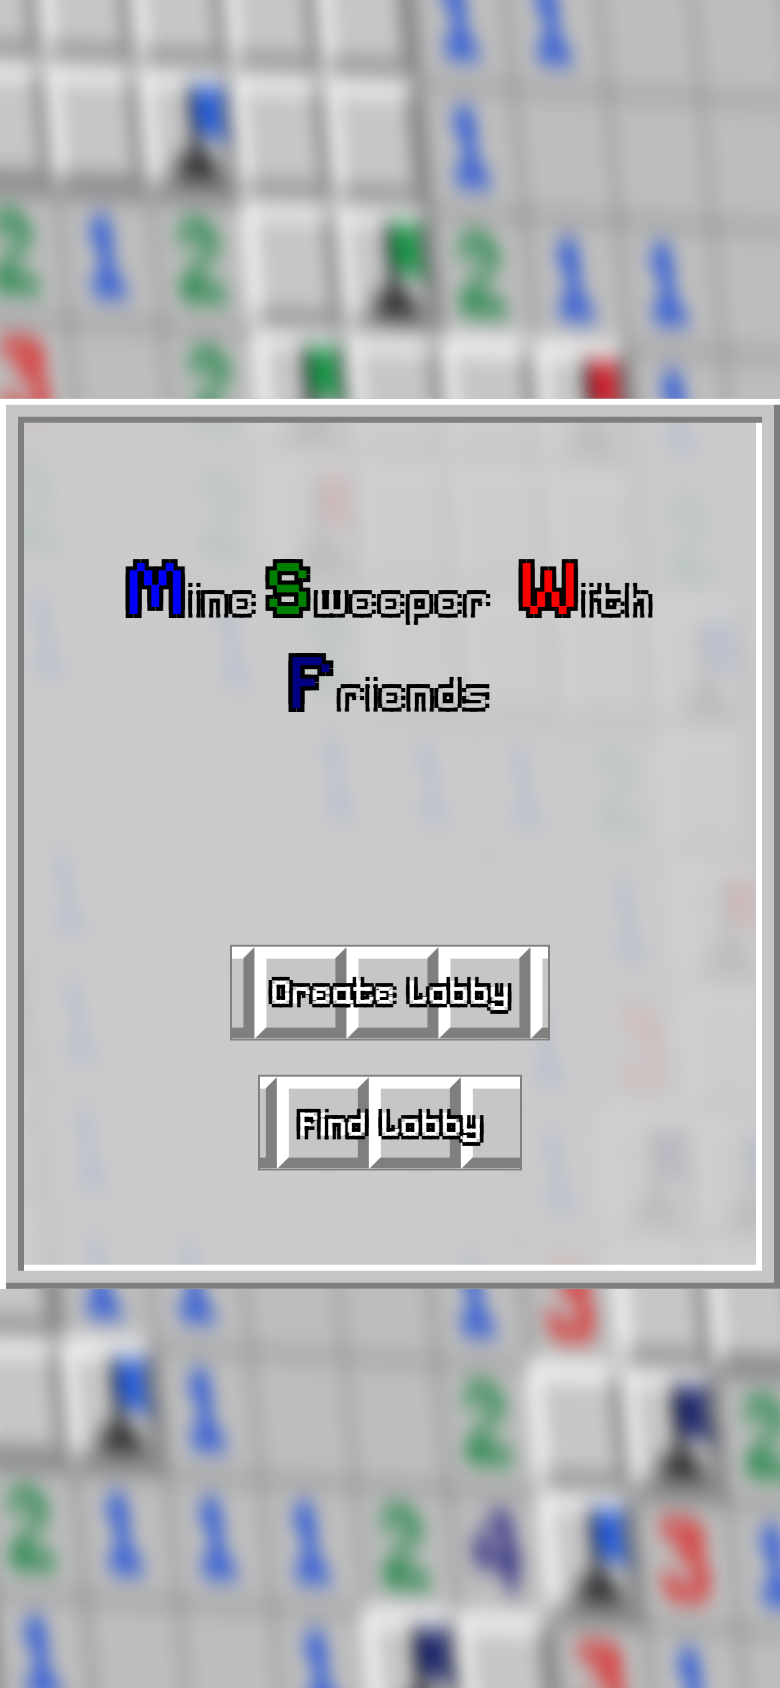
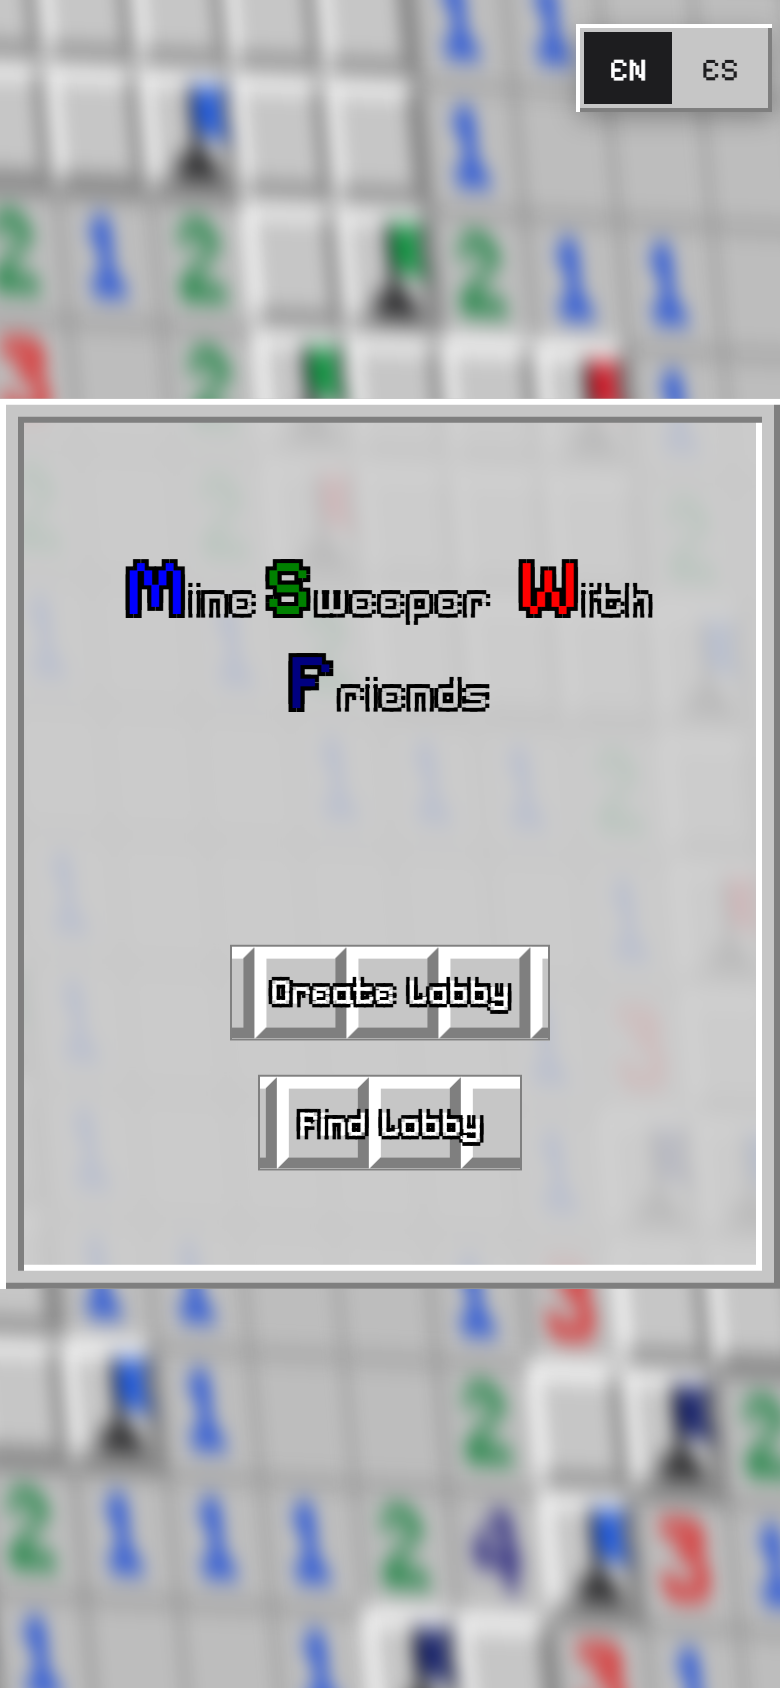
Document v1.1: controls, phone support and deployment
- Controls table for mouse and touch screens.
- Phone screenshots (menu, lobby, game).
- Deployment section now describes the pm2 + reverse proxy setup.
- Bump version to 1.1.0.

Changed region(s): [[0.7385, 0.0, 0.9846, 0.0924], [0.9846, 0.0, 1.0, 0.0616]]

diff --git a/README.md b/README.md
@@ -12,7 +12,8 @@ Real-time co-op Minesweeper for up to four players, right in the browser. Create
 - **Live co-op board.** Every reveal, flag and win or loss reaches all players instantly over WebSockets.
 - **Shared cursors.** See where your friends are pointing.
 - **Personal flags.** Flags show their owner's colour, only the owner can remove them, and the scoreboard counts each player's flags.
-- **Classic controls.** Left-click to reveal, right-click to flag, hold on a number to preview and release to *chord* (open all its neighbours once its flags are placed).
+- **Plays on phones and tablets.** Touch controls, a board that sizes itself to the screen, and layouts for phones, tablets and landscape.
+- **English and Spanish.** Picked automatically from the browser, switchable at any time, and remembered.
 - **Four difficulties:** Easy (15×15, 40 mines), Medium (29×20, 135), Hard (29×29, 200) and Custom (up to 100×100).
 - **Server-authoritative.** The board only exists on the server; clients receive just the cells that get revealed, so nobody can peek at the mines.
 - **Original pixel-art look.** Every graphic is drawn from code (see [Artwork](#artwork)).
@@ -21,6 +22,23 @@ Real-time co-op Minesweeper for up to four players, right in the browser. Create
 |---|---|---|
 | ![Main menu](docs/menu.png) | ![Lobby](docs/lobby.png) | ![Game over](docs/game-over.png) |
 
+## Controls
+
+| | Mouse | Touch screen |
+|---|---|---|
+| Reveal a cell | Left-click | Tap |
+| Place / remove your flag | Right-click | Long-press (or turn on **Flag mode** and tap) |
+| Open everything around a number (*chord*) | Click the number once its flags are placed | Tap the number once its flags are placed |
+| Restart | Click the smiley | Tap the smiley |
+| Zoom, back to menu | Hover the panel in the top-right corner | Tap the panel in the top-right corner |
+| Scoreboard | Hover the panel on the left | Tap the panel on the left |
+
+Big boards scroll on small screens; the counters and the smiley stay in view.
+
+| Phone: menu | Phone: lobby | Phone: game |
+|---|---|---|
+| ![Phone menu](docs/mobile.png) | ![Phone lobby](docs/mobile-lobby.png) | ![Phone game](docs/mobile-game.png) |
+
 ## How it works
 
 ```
@@ -28,7 +46,7 @@ Browser (public/)                               Node.js server (server/)
 ─────────────────                               ────────────────────────
 main.js    wires messages and buttons    ◄──►   index.js     Express + WebSocket on one port
 socket.js  WebSocket client                 WS   players.js   connected players, names, colours
-board.js   cells, flags, cursors, chording       game/lobbies.js  lobbies and game flow
+board.js   cells, sizing, mouse + touch input    game/lobbies.js  lobbies and game flow
 lobby.js   lobby and lobby browser               game/board.js    mines, flood fill, win check
 i18n.js    English / Spanish texts                protocol.js  message codes
 ```
@@ -82,15 +100,30 @@ docs/              screenshots
 
 ## Deployment
 
-The server is a plain Node.js app, so any host that runs Node works. On a Plesk server:
+The server is a plain Node.js app that listens on `PORT`. A typical production setup is a process manager to keep it running, plus a web server in front of it for HTTPS:
 
-1. Upload the project (without `node_modules`) to the domain's folder.
-2. In Plesk, open the domain's **Node.js** page and set:
-   - **Application root** and **Document root**: the project folder and its `public` folder
-   - **Application startup file**: `server/index.js`
-3. Click **NPM install**, then **Enable Node.js**.
+1. Upload the project and install dependencies: `npm ci --omit=dev`.
+2. Run it with [pm2](https://pm2.keymetrics.io/), which restarts it if it crashes and starts it at boot:
 
-Plesk serves the app over HTTPS and restarts it automatically if it stops.
+   ```bash
+   PORT=3101 pm2 start server/index.js --name minesweeper
+   pm2 save
+   pm2 startup
+   ```
+
+3. Put a reverse proxy in front of it that also forwards WebSocket upgrades. For nginx:
+
+   ```nginx
+   location / {
+       proxy_pass http://127.0.0.1:3101;
+       proxy_http_version 1.1;
+       proxy_set_header Upgrade $http_upgrade;
+       proxy_set_header Connection "upgrade";
+       proxy_set_header Host $host;
+   }
+   ```
+
+The proxy handles HTTPS and certificate renewals, so the game itself never deals with certificates.
 
 ## Artwork
 
